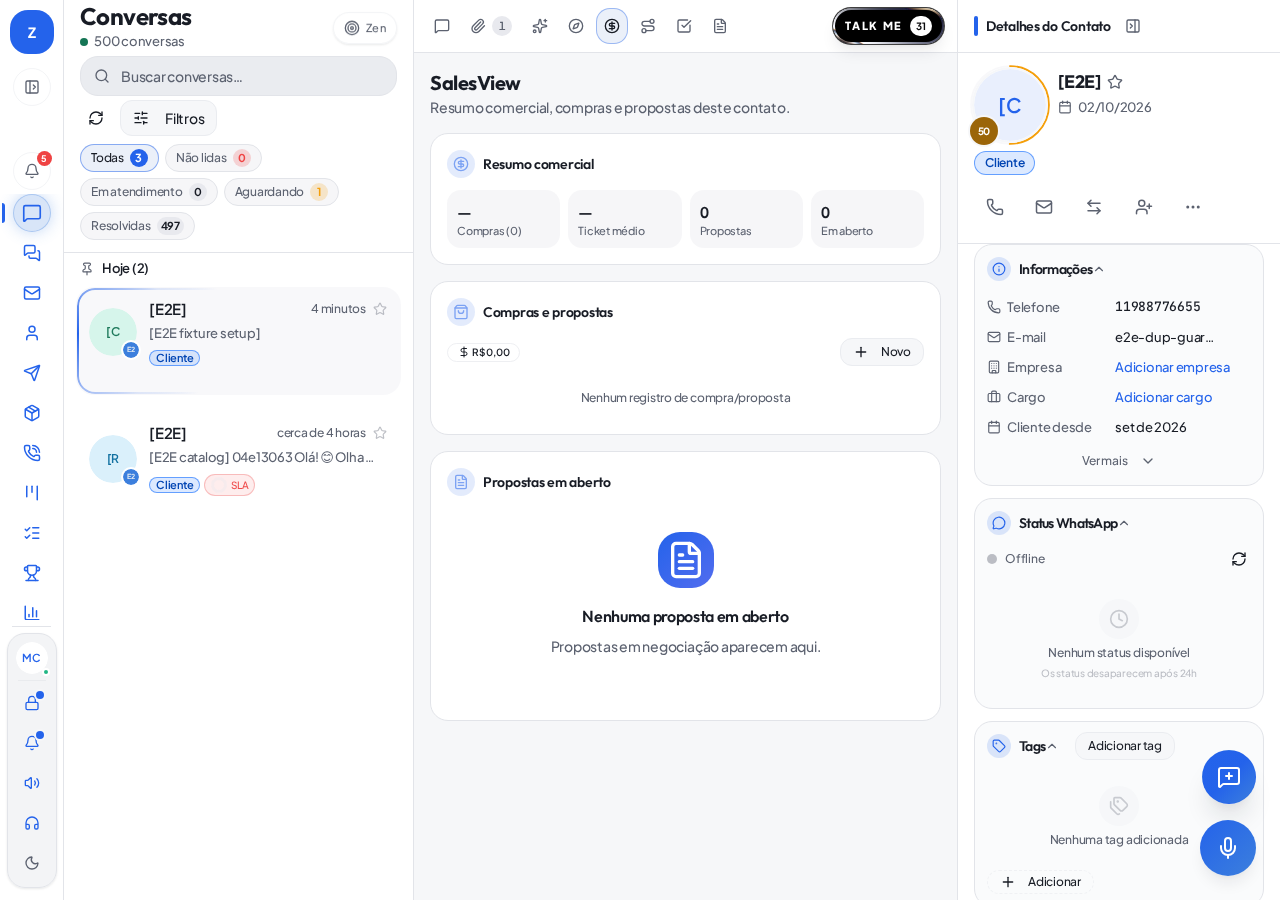
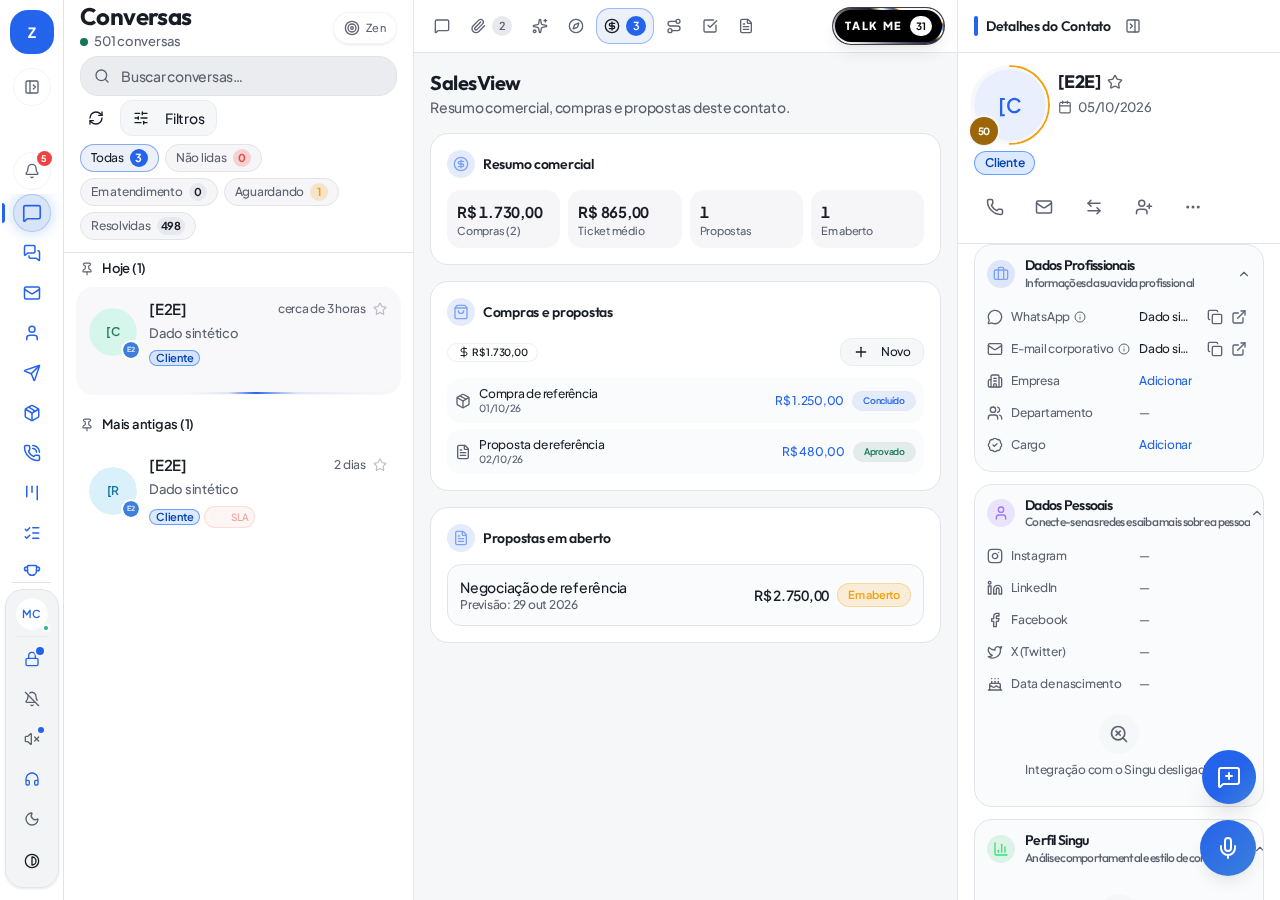
docs(salesview): corrige matriz visual de estados

diff --git a/docs/design/salesview-journey/VERIFICACAO_S38_S41_S42_S43_2026-10-02.md b/docs/design/salesview-journey/VERIFICACAO_S38_S41_S42_S43_2026-10-02.md
@@ -34,28 +34,30 @@ merge commits retorna verdadeiro.
 | 6 | Reload com `conversation-tab=orders` abre SalesView | ✅ **corrigido e verificado em navegador (03/10, PR #1797)** | A preferência **é restaurada na primeira conversa aberta depois do reload**: `{orders:'true', history:'false', chat:'false', ls:'orders'}` — antes o derivado caía em `chat`. Causa: o estado restaurado estava ancorado em `contactId: null` e morria no primeiro clique. A correção distingue "preferência restaurada" de "aba escolhida nesta sessão"; o ancoramento por contato (deliberado, documentado em comentário) foi **preservado**. Teste: `resolveActiveTab.test.ts` 5 passed, com mutação (**2 failed**: `expected 'chat' to be 'orders'`) |
 | 7 | Erros de console | ⚠ | `401 /functions/v1/get-sip-password` (pré-existente, outro fluxo). **Achado novo, medido:** 7 chunks lazy em **404** na mesma sessão (`useQueues`, `useMFA`, `TransferDialog`, `CloseConversationDialog`, `HotRoutePrefetcher`, `EvolutionDisconnectBanner`, `external-crm.service`) — **bundle velho na aba** referenciando assets que o redeploy apagou; a app detecta a versão nova e apenas **avisa** |
 
-## S38 e S42 — prints
+## S38 e S42 — matriz visual corrigida em 05/10
 
-`docs/design/salesview-journey/` — **9 arquivos, todos 1280×900, o maior com 342 KB** (teto de 400 KB):
+A matriz central agora tem os **9 arquivos exigidos**, todos com 1280×900 e menos de 400 KB:
 
 | Arquivo | KB | O que mostra |
-|---|---|---|
-| `01-barra.png` | 84 | barra de abas com SalesView e Journey |
-| `01-barra-claro.png` | 342 | idem, tema claro |
-| `02-salesview-vazio.png` | 153 | SalesView de contato **sem compras** (estado vazio) |
-| `03-salesview-cheio.png` | 153 | ⚠ **é o mesmo estado vazio** — a conta QA enxerga só 2 conversas, ambas `[E2E]`, sem compras. Não há "cheio" para fotografar e **não** foi forjado |
-| `04-journey.png` | 134 | ⚠ mostra **o erro da aba Journey** (item 4) |
-| `04-journey-claro.png` | 190 | idem, tema claro |
-| `05-sidebar.png` | 150 | sidebar sem os 3 blocos |
-| `06-claro-contraste.png` | 153 | contraste no tema claro |
-| `07-alto-contraste.png` | 155 | ⚠ **não demonstra alto-contraste** (ver S43) |
+|---|---:|---|
+| [Antes — barra com Pedidos e Histórico](./00-antes-barra.png) | 137 | referência anterior, executada no commit `95edd0329` |
+| [Antes — sidebar anterior](./00-antes-sidebar.png) | 133 | Resumo Comercial e estrutura antiga de Mais detalhes |
+| [Depois — barra](./01-barra.png) | 84 | barra com SalesView e Journey |
+| [Depois — barra, tema claro](./01-barra-claro.png) | 342 | par claro da barra |
+| [SalesView vazio](./02-salesview-vazio.png) | 154 | resumo zerado e estados vazios internos |
+| [SalesView cheio](./03-salesview-cheio.png) | 168 | resumo preenchido, duas compras/propostas e uma negociação em aberto |
+| [Journey](./04-journey.png) | 134 | captura histórica da Journey |
+| [Journey, tema claro](./04-journey-claro.png) | 190 | par claro da Journey |
+| [Depois — sidebar](./05-sidebar.png) | 151 | sidebar sem os três blocos removidos |
 
-`00-antes-barra.png` e `00-antes-sidebar.png` **não existem**: são prints da sessão do dono e nunca
-foram versionados. Não foram fabricados.
+As duas referências “antes” foram reproduzidas no código histórico anterior à mudança (`95edd0329`),
+com sessão QA e dados identificáveis substituídos por `Dado sintético` no DOM antes da captura. O estado
+cheio foi capturado no app atual com fixture visual determinística interceptada no navegador: duas
+compras/propostas e uma negociação, sem INSERT/UPDATE/DELETE e sem alterar o banco de produção. Assim,
+`02-salesview-vazio.png` e `03-salesview-cheio.png` têm conteúdo e SHA-256 distintos.
 
-**Correção de rótulo:** o tema padrão desta conta é **claro** (`<html class="light">`, fundo
-`rgb(246,247,249)`, texto `rgb(24,28,37)`) — logo, o conjunto capturado **é o claro**, não o escuro.
-O par escuro exige forçar `class="dark"` e não foi produzido.
+As capturas adicionais de contraste e período continuam preservadas no diretório, mas não contam como
+substitutas dos nove itens da matriz. O tema padrão desta conta é claro (`<html class="light">`).
 
 ## S43 — contraste
 

diff --git a/docs/design/PLANO_SALESVIEW_JOURNEY_50_ETAPAS_2026-10-02.md b/docs/design/PLANO_SALESVIEW_JOURNEY_50_ETAPAS_2026-10-02.md
@@ -384,9 +384,10 @@ Estas 4 etapas ficaram pendentes no #1628 por exigirem login real em produção 
 Nesta rodada os dois existem e a medição foi feita contra a produção — resultado cru em
 `docs/design/salesview-journey/VERIFICACAO_S38_S41_S42_S43_2026-10-02.md`.
 
-- **S38 / S42** — [x] 9 prints em `docs/design/salesview-journey/` (1280x900, o maior com 342 KB).
-  Ressalvas declaradas: `03-salesview-cheio.png` é o estado vazio (a conta QA não tem contato com
-  compras) e o par no tema escuro não foi produzido (o tema padrão da conta é claro).
+- **S38 / S42** — [x] matriz central com 9 prints referenciados em `docs/design/salesview-journey/`,
+  todos 1280×900 e abaixo de 400 KB. Em 05/10 foram adicionadas as duas referências históricas
+  ausentes e `03-salesview-cheio.png` foi recapturado com fixture visual determinística, sem escrita no
+  banco; o estado cheio agora é distinto do vazio.
 - **S41** — [~] itens **1, 2, 3 e 5 fecham** com evidência (abas, faixa de resumo, `created_by` gravado
   e conferido no banco, sidebar sem os 3 blocos); item **4 bloqueado** (aba Journey não carrega em
   produção: chunk `JourneyTab-B1r1ugA1.js` = **404**); item **6 não confirmado** (o reload não restaura
